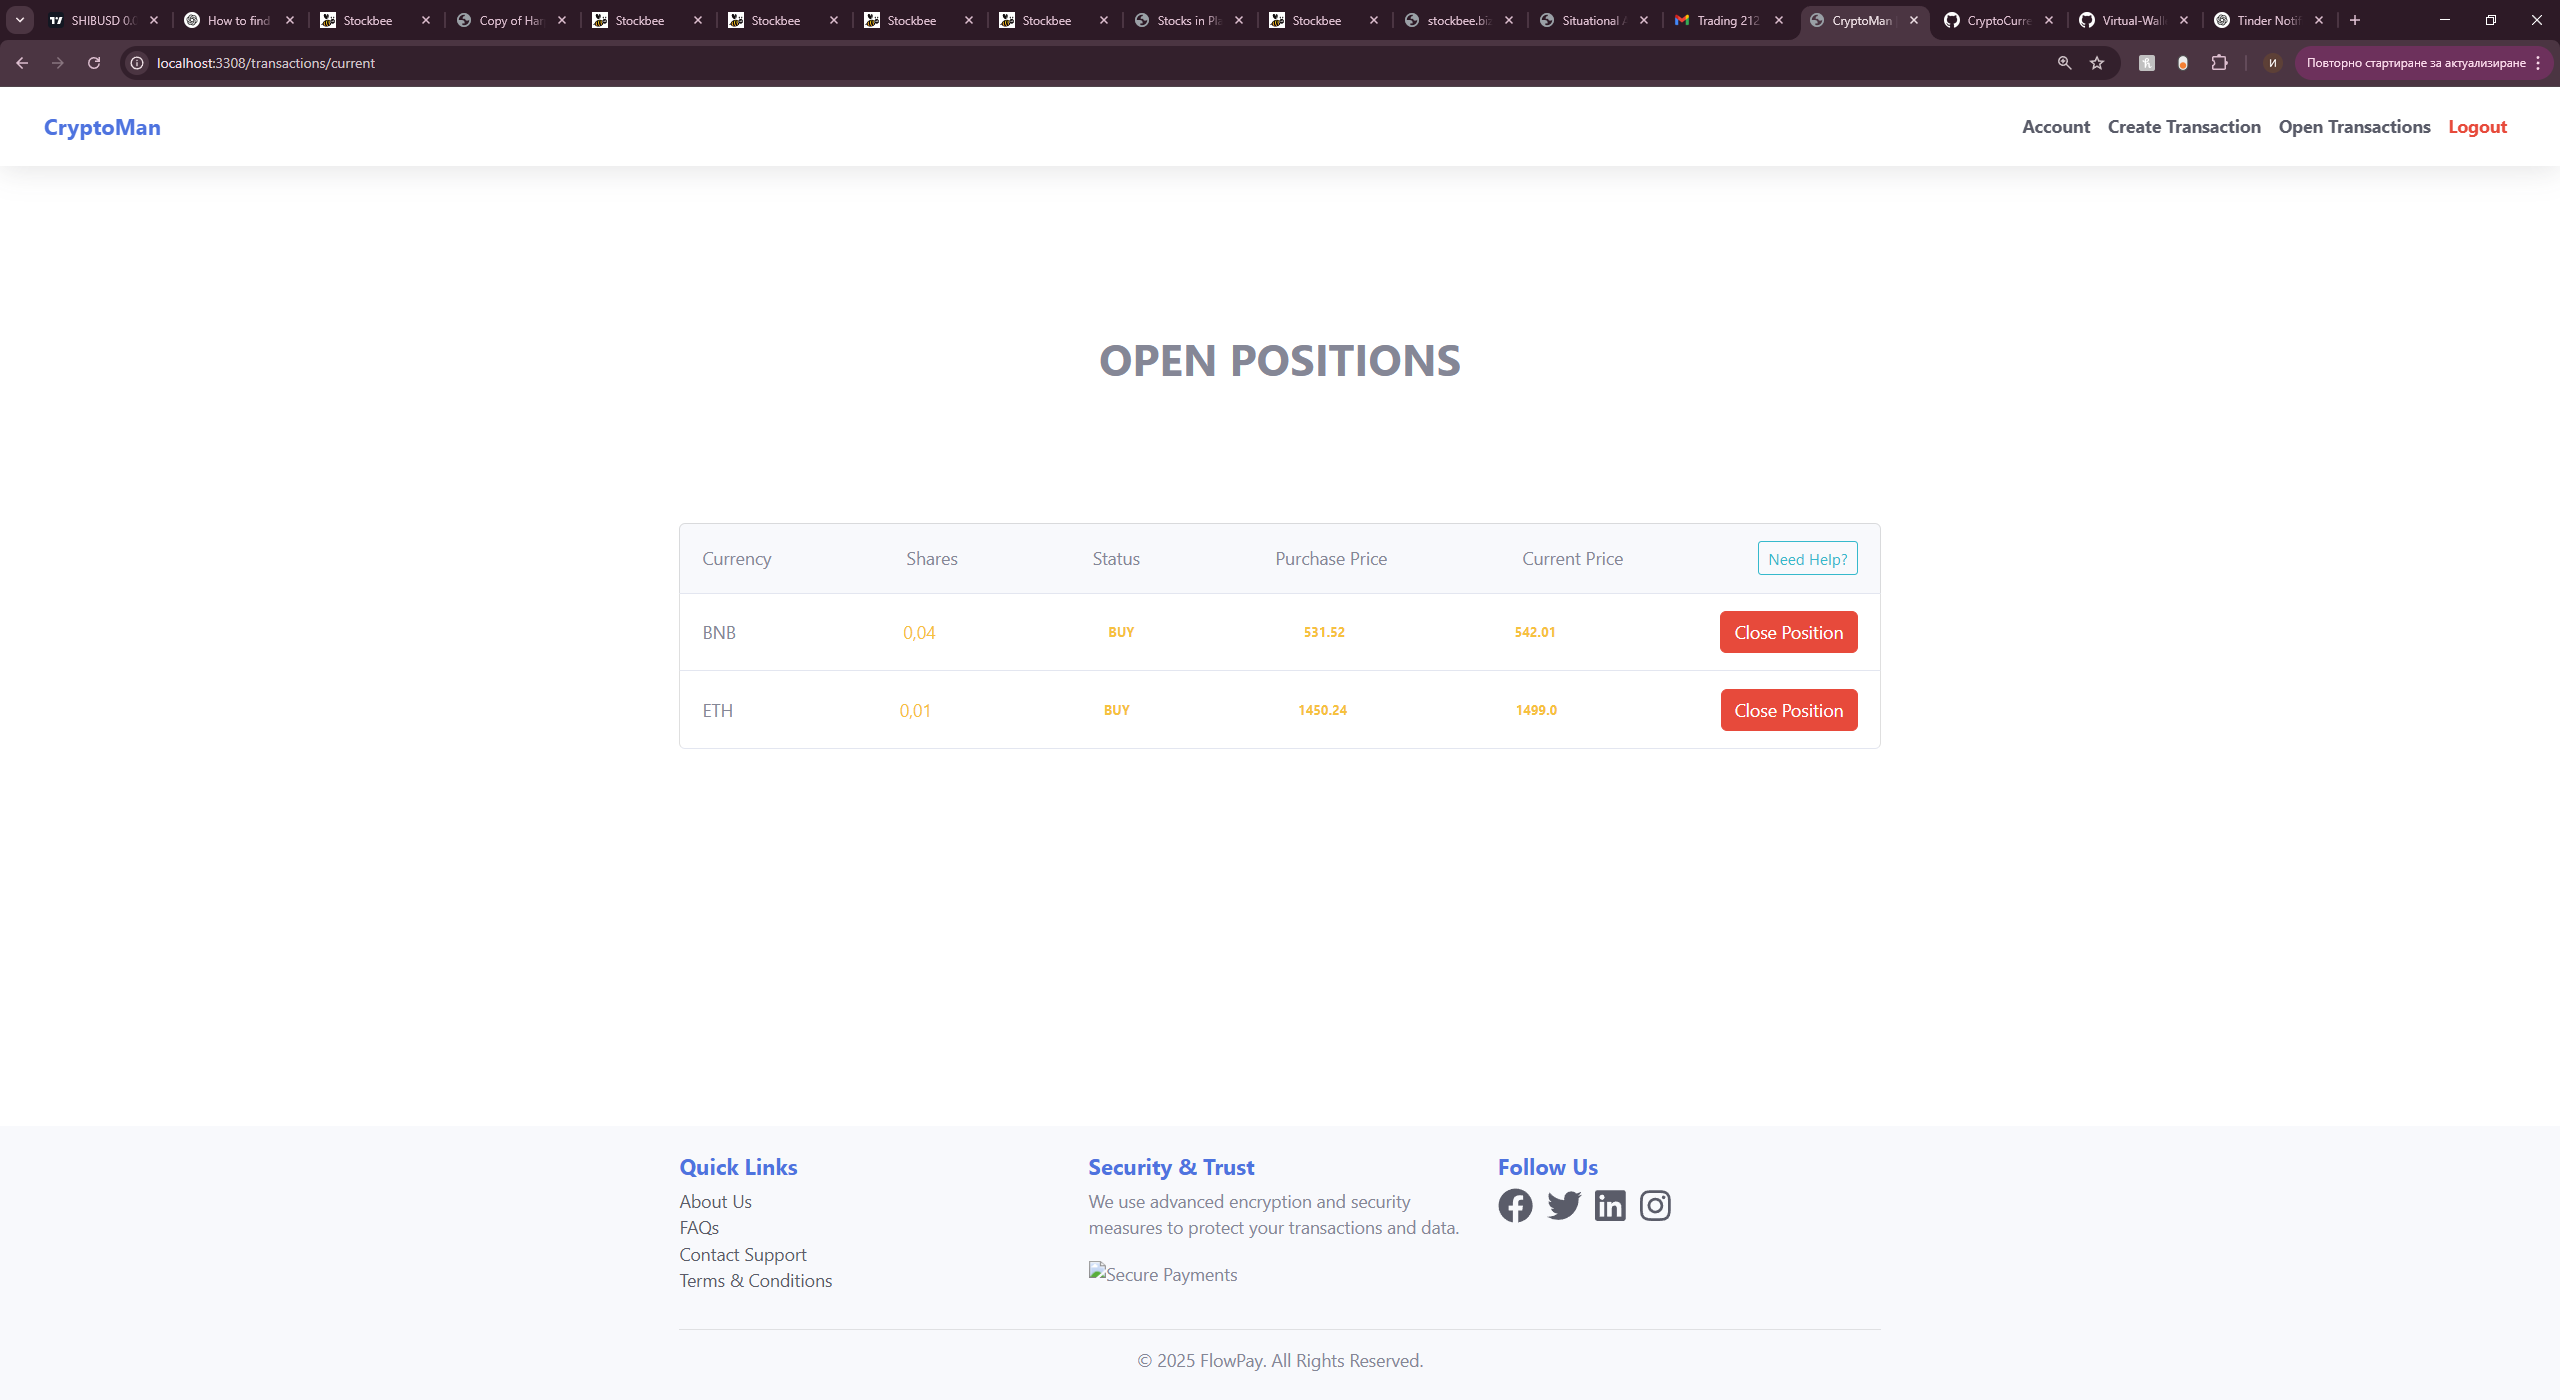
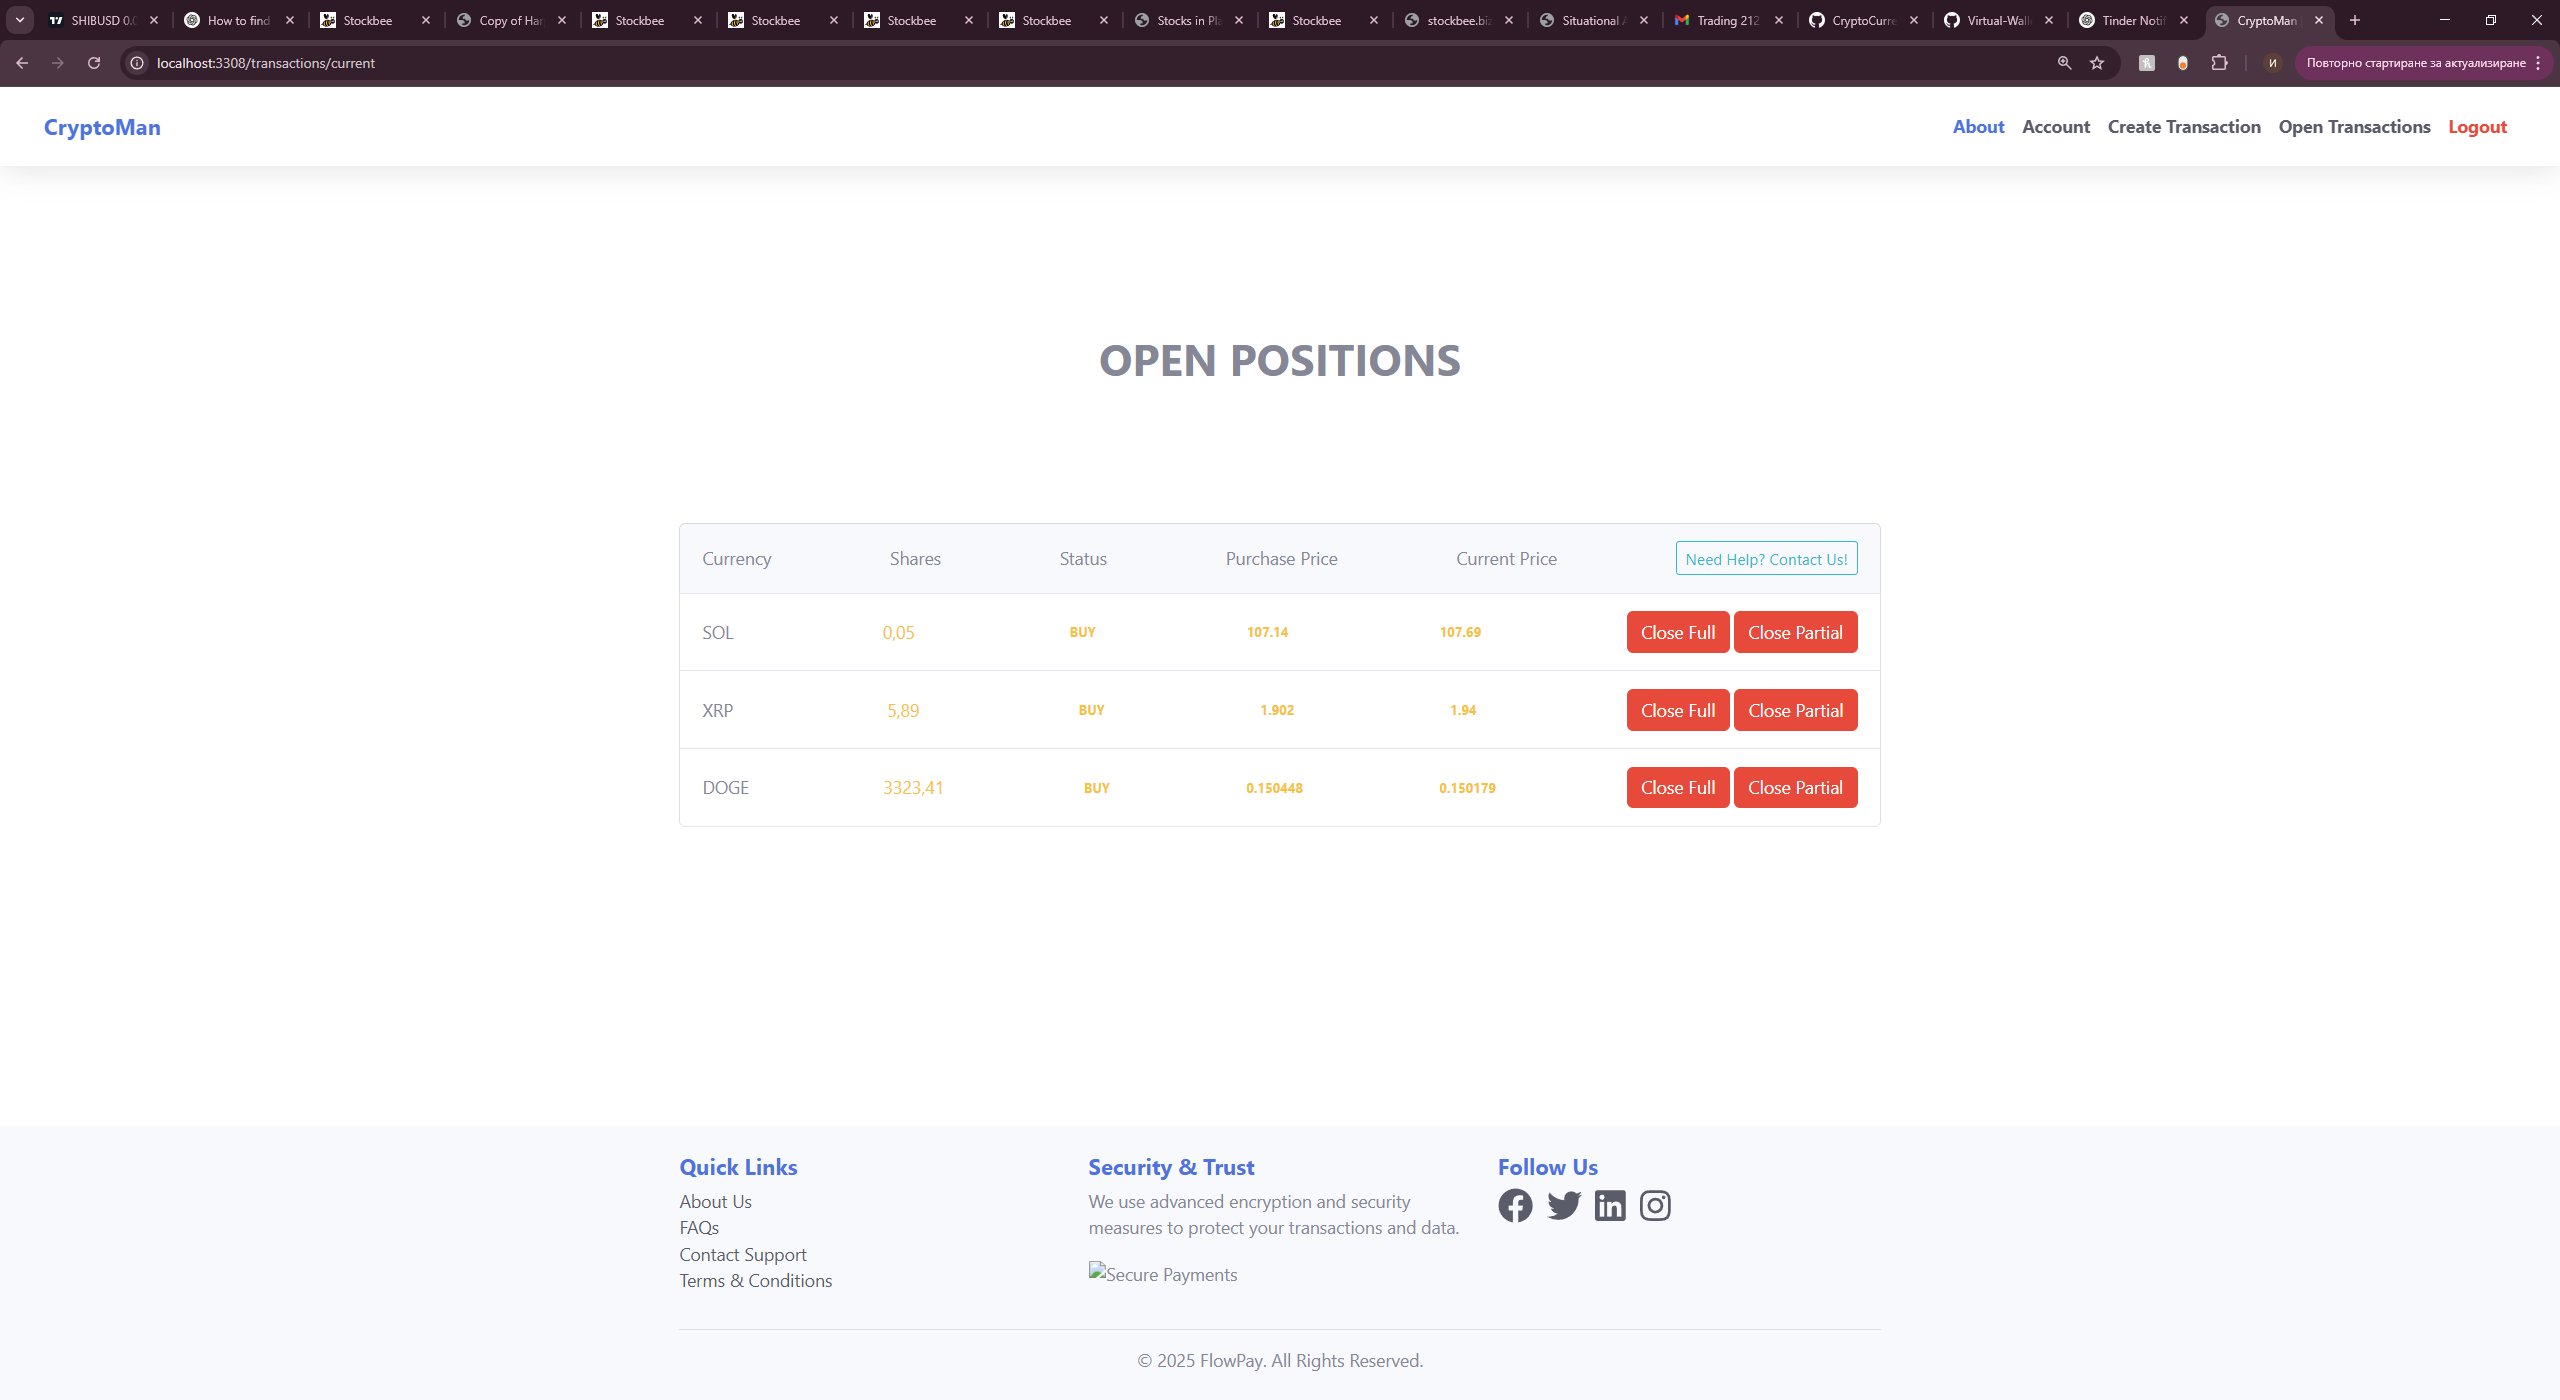
Final touches, and implementing partial shares sell of positions

diff --git a/src/main/resources/templates/CreateSellTransaction.html b/src/main/resources/templates/CreateSellTransaction.html
@@ -1,0 +1,47 @@
+<!DOCTYPE html>
+<html xmlns:th="http://www.thymeleaf.org" xmlns="http://www.w3.org/1999/html" lang="en">
+<head th:replace="~{fragments/PageLayout.html :: head('Create Transaction')}"></head>
+<body>
+
+<nav th:replace="~{fragments/PageLayout.html :: navbar}"></nav>
+
+<section class="container-fluid d-flex align-items-center justify-content-center vh-100">
+  <div class="masthead vh-100 justify-content-center">
+    <div class="card o-hidden border-0 shadow-lg my-5">
+      <div class="card-body p-5">
+
+        <form action="#" th:action="@{/transactions/sell}" th:object="${transaction}" method="post">
+
+          <h2 class="page-title">Create a Transaction</h2>
+
+          <input type="hidden" th:field="*{type}" value="sell" />
+          <input type="hidden" th:field="*{currency}"/>
+
+          <div class="form-group">
+            <h3 class="text-gray-900 font-weight-bold">
+              You are selling:</h3>
+            <br/>
+            <h2 class="text-gray-900 font-weight-bold" th:text="${transaction.getCurrency()}"></h2>
+          </div>
+
+          <div class="form-group">
+            <label class="text-gray-900 font-weight-bold">Amount of shares</label>
+            <br/>
+            <input class="form-control form-control-user" type="text" th:field="*{shares}"
+                   placeholder="Enter Amount"/>
+          </div>
+
+          <span class="error" th:if="${#fields.hasErrors('shares')}" th:errors="*{shares}"></span>
+          <br/>
+          <button class="btn btn-danger btn-user btn-block" type="submit">Create</button>
+        </form>
+      </div>
+    </div>
+  </div>
+</section>
+
+<footer th:replace="~{fragments/PageLayout.html :: footer}"></footer>
+<div th:replace="~{/fragments/PageLayout.html :: scripts}"></div>
+
+</body>
+</html>

diff --git a/src/main/resources/templates/CurrentHoldings.html b/src/main/resources/templates/CurrentHoldings.html
@@ -20,7 +20,7 @@
             <div class="w-20">Purchase Price</div>
             <div class="w-20">Current Price</div>
             <div class="w-20">
-                <a href="/help" th:href="@{/help}" class="btn btn-outline-info btn-sm">Need Help?</a>
+                <div class="btn btn-outline-info btn-sm">Need Help? Contact Us!</div>
             </div>
         </div>
 
@@ -62,8 +62,10 @@
             <div>
                 <a class="btn btn-danger" th:href="@{/transactions/close/{id}
                 (id=${transaction.id})}">
-                    Close Position
+                    Close Full
                 </a>
+
+                <a th:href="@{/transactions/sell(currency=${transaction.currency})}" class="btn btn-danger">Close Partial</a>
             </div>
 
         </div>

diff --git a/src/main/java/com/telerikacademy/web/cryptocurrency_trading_platform/controllers/mvc/TransactionMvcController.java b/src/main/java/com/telerikacademy/web/cryptocurrency_trading_platform/controllers/mvc/TransactionMvcController.java
@@ -266,6 +266,77 @@ public class TransactionMvcController {
         transactionService.createIncomingTransaction(user, openTransaction);
         return "redirect:/";
     }
-    //buy and sell crypto
-    //view transaction history
+
+    @GetMapping("/sell")
+    public String showSellForm(@RequestParam String currency, Model model, HttpSession session) {
+        User user;
+        try {
+            user = authenticationHelper.tryGetUser(session);
+        } catch (AuthenticationFailureException e) {
+            return "AccessDenied";
+        }
+        TransactionDtoCreate dtoCreate = new TransactionDtoCreate();
+        dtoCreate.setCurrency(currency);
+        model.addAttribute("user", user);
+        model.addAttribute("transaction", dtoCreate);
+        model.addAttribute("currency", currency);
+        return "CreateSellTransaction";
+    }
+
+    @PostMapping("/sell")
+    public String createSellTransaction(
+            @Valid @ModelAttribute("transaction") TransactionDtoCreate transactionDtoCreate,
+            BindingResult errors,
+            HttpSession session) {
+
+        if (errors.hasErrors()) {
+            return "CreateSellTransaction";
+        }
+
+        User user;
+        try {
+            user = authenticationHelper.tryGetUser(session);
+            if (user.isBlocked()) {
+                return "BlockedView";
+            }
+        } catch (AuthenticationFailureException e) {
+            return "AccessDenied";
+        }
+
+        String currency = transactionDtoCreate.getCurrency();
+
+        List<Transaction> transactions = transactionService.filterTransactions(null, null, currency,
+                user, null, null);
+
+        double totalBought = transactions.stream()
+                .filter(t -> t.getStatus() == Status.BUY)
+                .mapToDouble(Transaction::getShares)
+                .sum();
+
+        double totalSold = transactions.stream()
+                .filter(t -> t.getStatus() == Status.SELL)
+                .mapToDouble(Transaction::getShares)
+                .sum();
+
+        double openAmount = totalBought - totalSold;
+
+        if (transactionDtoCreate.getShares() <= 0 || transactionDtoCreate.getShares() > openAmount) {
+            errors.rejectValue("shares", "shares.exceeds");
+            return "CreateSellTransaction";
+        }
+
+        double currentPrice = cryptoPricesFetch.getPriceForSymbol(currency).get();
+        double amount = transactionDtoCreate.getShares() * currentPrice;
+
+        transactionDtoCreate.setPriceAtPurchase(currentPrice);
+        transactionDtoCreate.setAmount(String.valueOf(amount));
+
+        Transaction transaction = transactionMapper.fromTransactionDTo(transactionDtoCreate);
+        transaction.setStatus(Status.SELL);
+
+        transactionService.createIncomingTransaction(user, transaction);
+
+        return "redirect:/transactions/all";
+    }
+
 }

diff --git a/src/main/java/com/telerikacademy/web/cryptocurrency_trading_platform/services/TransactionServiceImpl.java b/src/main/java/com/telerikacademy/web/cryptocurrency_trading_platform/services/TransactionServiceImpl.java
@@ -57,8 +57,6 @@ public class TransactionServiceImpl implements TransactionService {
         transaction.setCreatedAt(LocalDateTime.now());
         transaction.setPrice(transaction2.getPrice());
         transaction.setShares(transaction2.getShares());
-        System.out.println(transaction.getShares() + " " + transaction2.getShares());
-        System.out.println(transaction.getAmount() + " " + transaction2.getAmount());
         transactionRepository.save(transaction);
 
         user.setBalance(user.getBalance() + transaction.getAmount());

diff --git a/README.md b/README.md
@@ -14,6 +14,8 @@ feautures such as crypto buying and selling, transaction history, reseting your 
 loss you have on the position.
 **Crypto Prices** - View the real-time prices on the top-20 crypto currencies around the world, with the prices being updated
 every minute.
+**Sort & Filtering** - View all transactions and filter them based on start & end-date, and transaction type. Also 
+sort by amount & date (in ascending and descending order)
 
 ## Installation
 1. **Clone the repository** on your computer and install the dependencies in build.gradle
